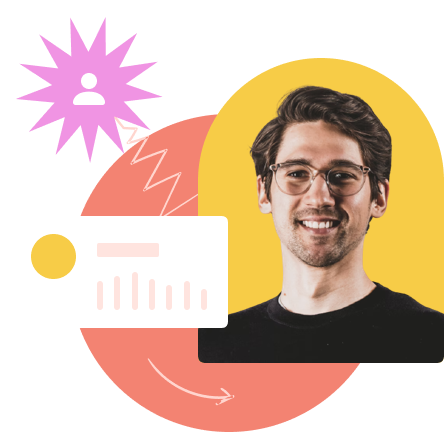
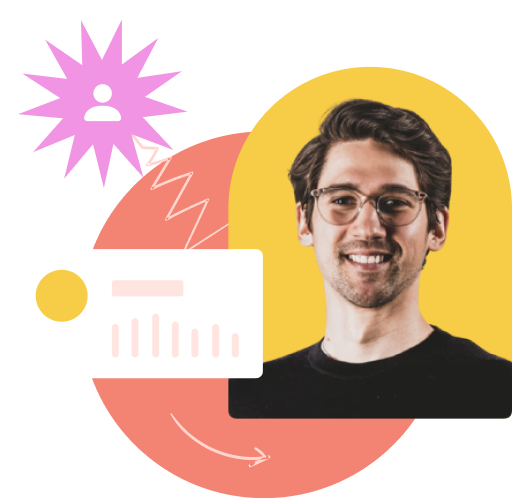
footer WIP

Changed region(s): [[0.4392, 0.7523, 1.0, 0.8426], [0.527, 0.9931, 0.5856, 1.0], [0.4392, 0.9931, 0.4685, 1.0]]

diff --git a/components/organisms/P_Footer.vue b/components/organisms/P_Footer.vue
@@ -1,6 +1,14 @@
 <template>
   <div class="footer">
-    <P_Hero_image></P_Hero_image>
+    <div class="footer__hero">
+      <P_Hero_image
+        class="footer__banner"
+        :titulo="'Help To Build Your Dream Project'"
+        :texto="`A digital agency is a business you hire to outsource your digital marketing efforts, instead of handling in-house.`"
+        :backgroundColor="'#EF6D58'"
+        :src="require('@/assets/images/pic.png')"
+      />
+    </div>
     <div class="footer__nav">
       <div class="footer__logo">
         <img src="../../assets/images/Webflow_logo.png" />
@@ -83,7 +91,8 @@ export default {
 <style lang="scss">
 .footer {
   width: 100%;
-  background-color: #fdf0e9;
+  height: auto;
+  background-color: #28293e;
   color: #000000;
 
   @media (min-width: 992px) {
@@ -91,13 +100,83 @@ export default {
   @media (min-width: 1280px) {
   }
 
+  &__hero {
+    justify-content: center;
+    display: flex;
+    position: relative;
+    height: 80%;
+    @media (min-width: 992px) {
+      height: 80%;
+    }
+    @media (min-width: 1280px) {
+      height: 50%;
+    }
+  }
+
+  &__banner {
+    width: 85%;
+    position: relative;
+    bottom: -68px;
+    h1 {
+      color: #ffffff;
+    }
+    p {
+      color: rgba(255, 255, 255, 0.64);
+    }
+    @media (min-width: 992px) {
+      position: relative;
+      bottom: -115px;
+    }
+    @media (min-width: 1280px) {
+      width: 85%;
+      bottom: -130px;
+    }
+
+    .heroImage__container {
+      display: flex;
+      flex-direction: column-reverse;
+      @media (min-width: 992px) {
+      }
+      @media (min-width: 1280px) {
+        flex-direction: row;
+      }
+
+      .heroImage__textSide {
+        @media (min-width: 992px) {
+        }
+        @media (min-width: 1280px) {
+          margin: 0;
+        }
+      }
+      .heroImage__imageSide {
+        @media (min-width: 992px) {
+          .heroImage__image {
+            width: 45vw;
+            height: 41.75vw;
+          }
+        }
+        @media (min-width: 1280px) {
+          .heroImage__image {
+            width: 29vw;
+            height: 29vw;
+            padding: 0;
+            margin: 0;
+          }
+        }
+      }
+    }
+  }
+
   &__nav {
+    background-color: #fdf0e9;
     display: flex;
     flex-direction: column;
     align-items: center;
     justify-content: center;
     text-align: center;
+    padding-top: 200px;
     @media (min-width: 992px) {
+      padding-top: 200px;
     }
     @media (min-width: 1280px) {
       padding: 217px 135px 68px 135px;
@@ -177,6 +256,7 @@ export default {
   }
 
   &__copyMenu {
+    background-color: #fdf0e9;
     display: flex;
     flex-direction: column;
     padding: 43px 88px;

diff --git a/layouts/default.vue b/layouts/default.vue
@@ -2,9 +2,9 @@
   <div class="layout">
     <P_Header />
     <P_Latest_work />
-    <!-- <P_Banner /> -->
+    <P_Banner />
     <P_Testimonials />
-    <!-- <P_Footer /> -->
+    <P_Footer />
   </div>
 </template>
 
